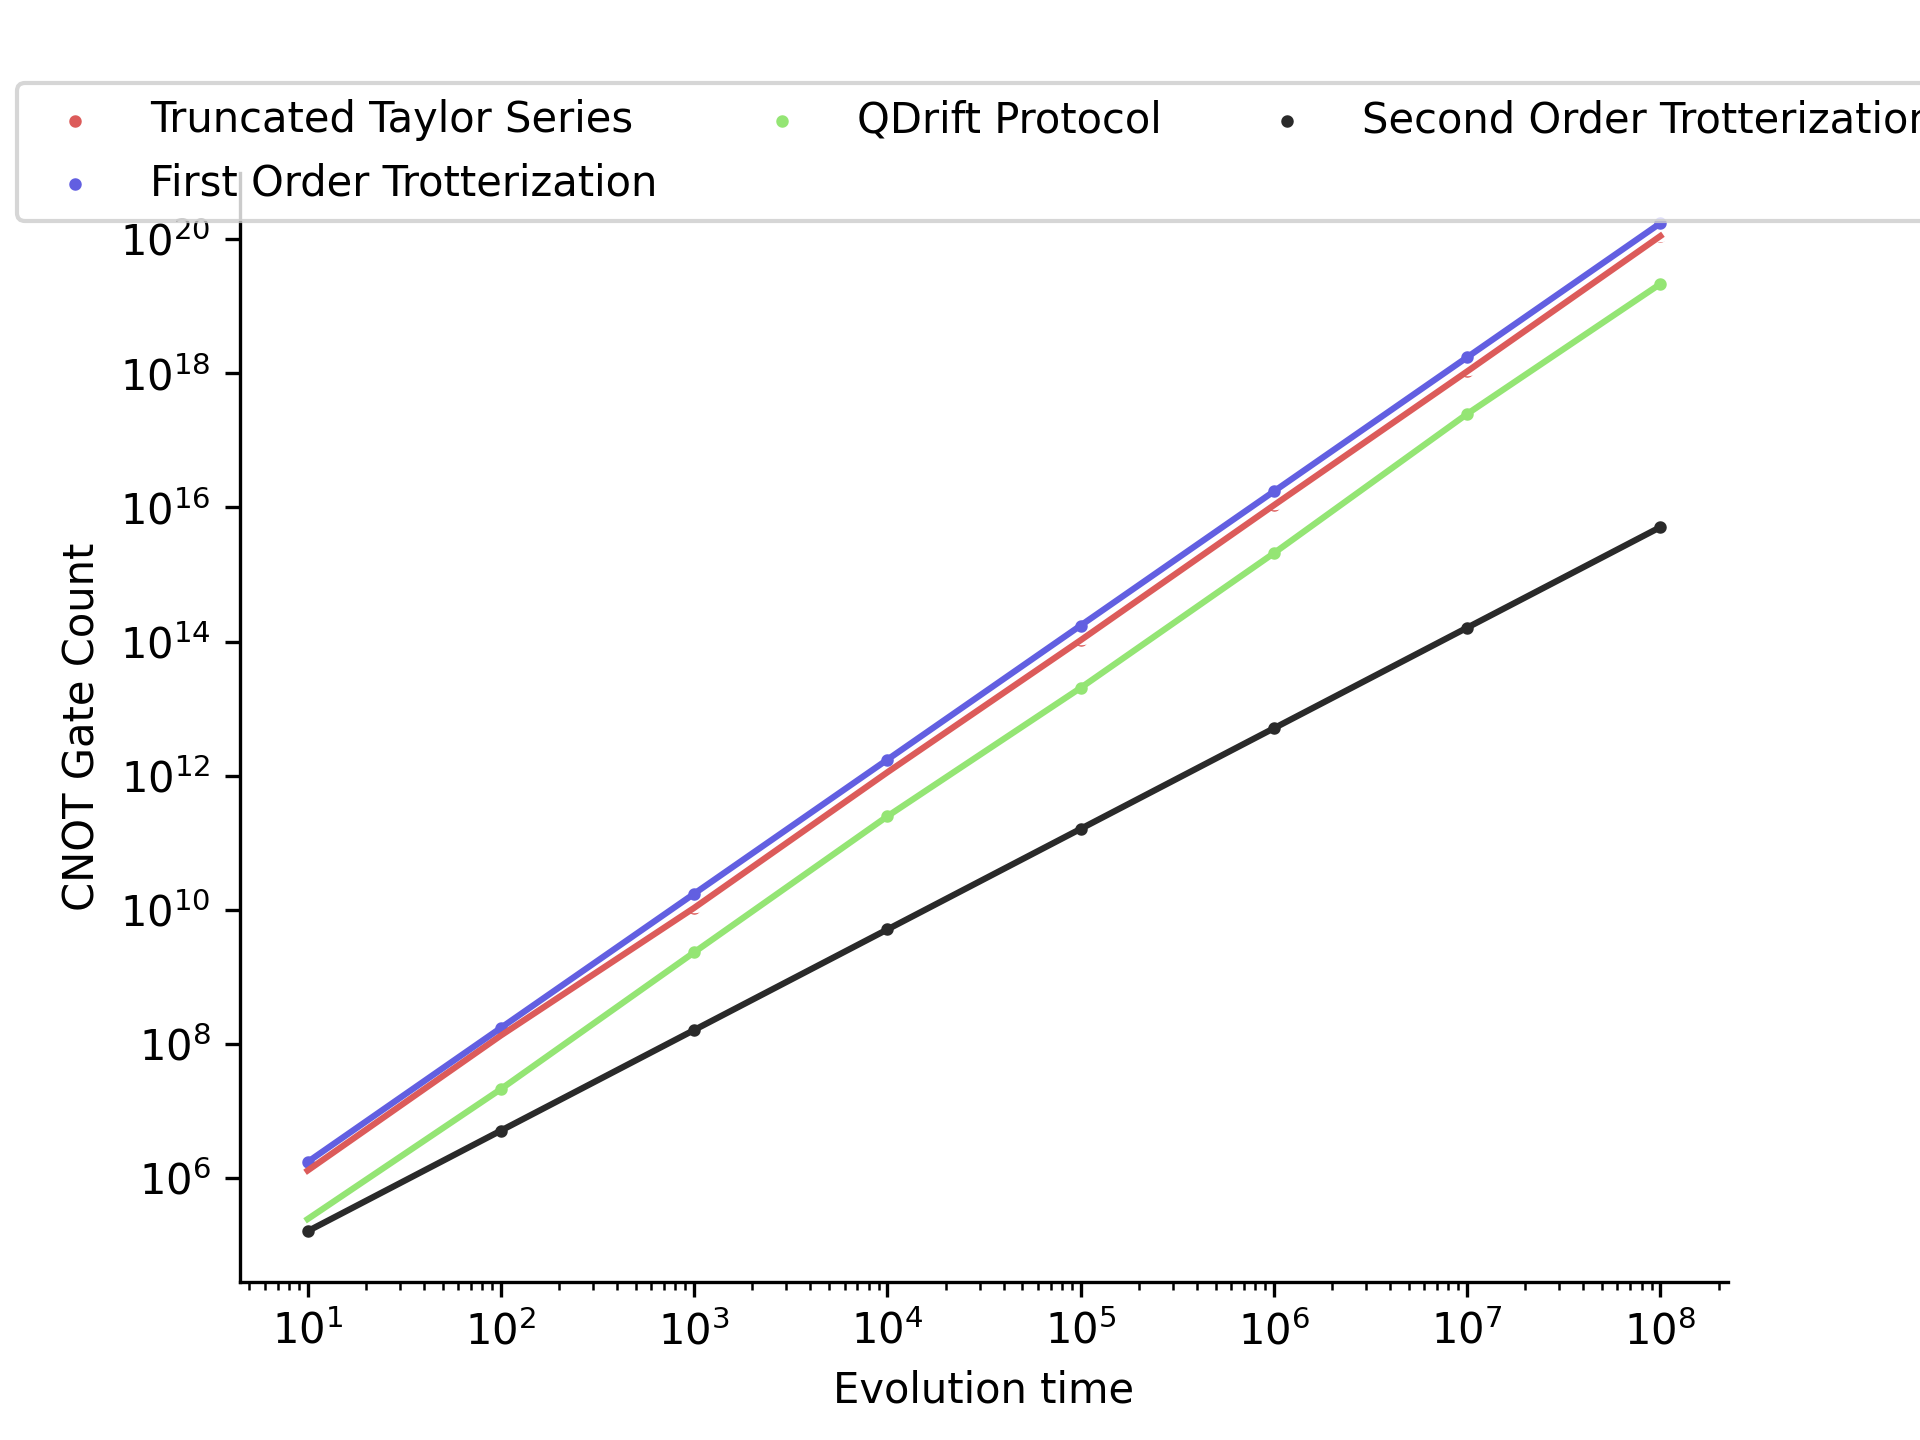
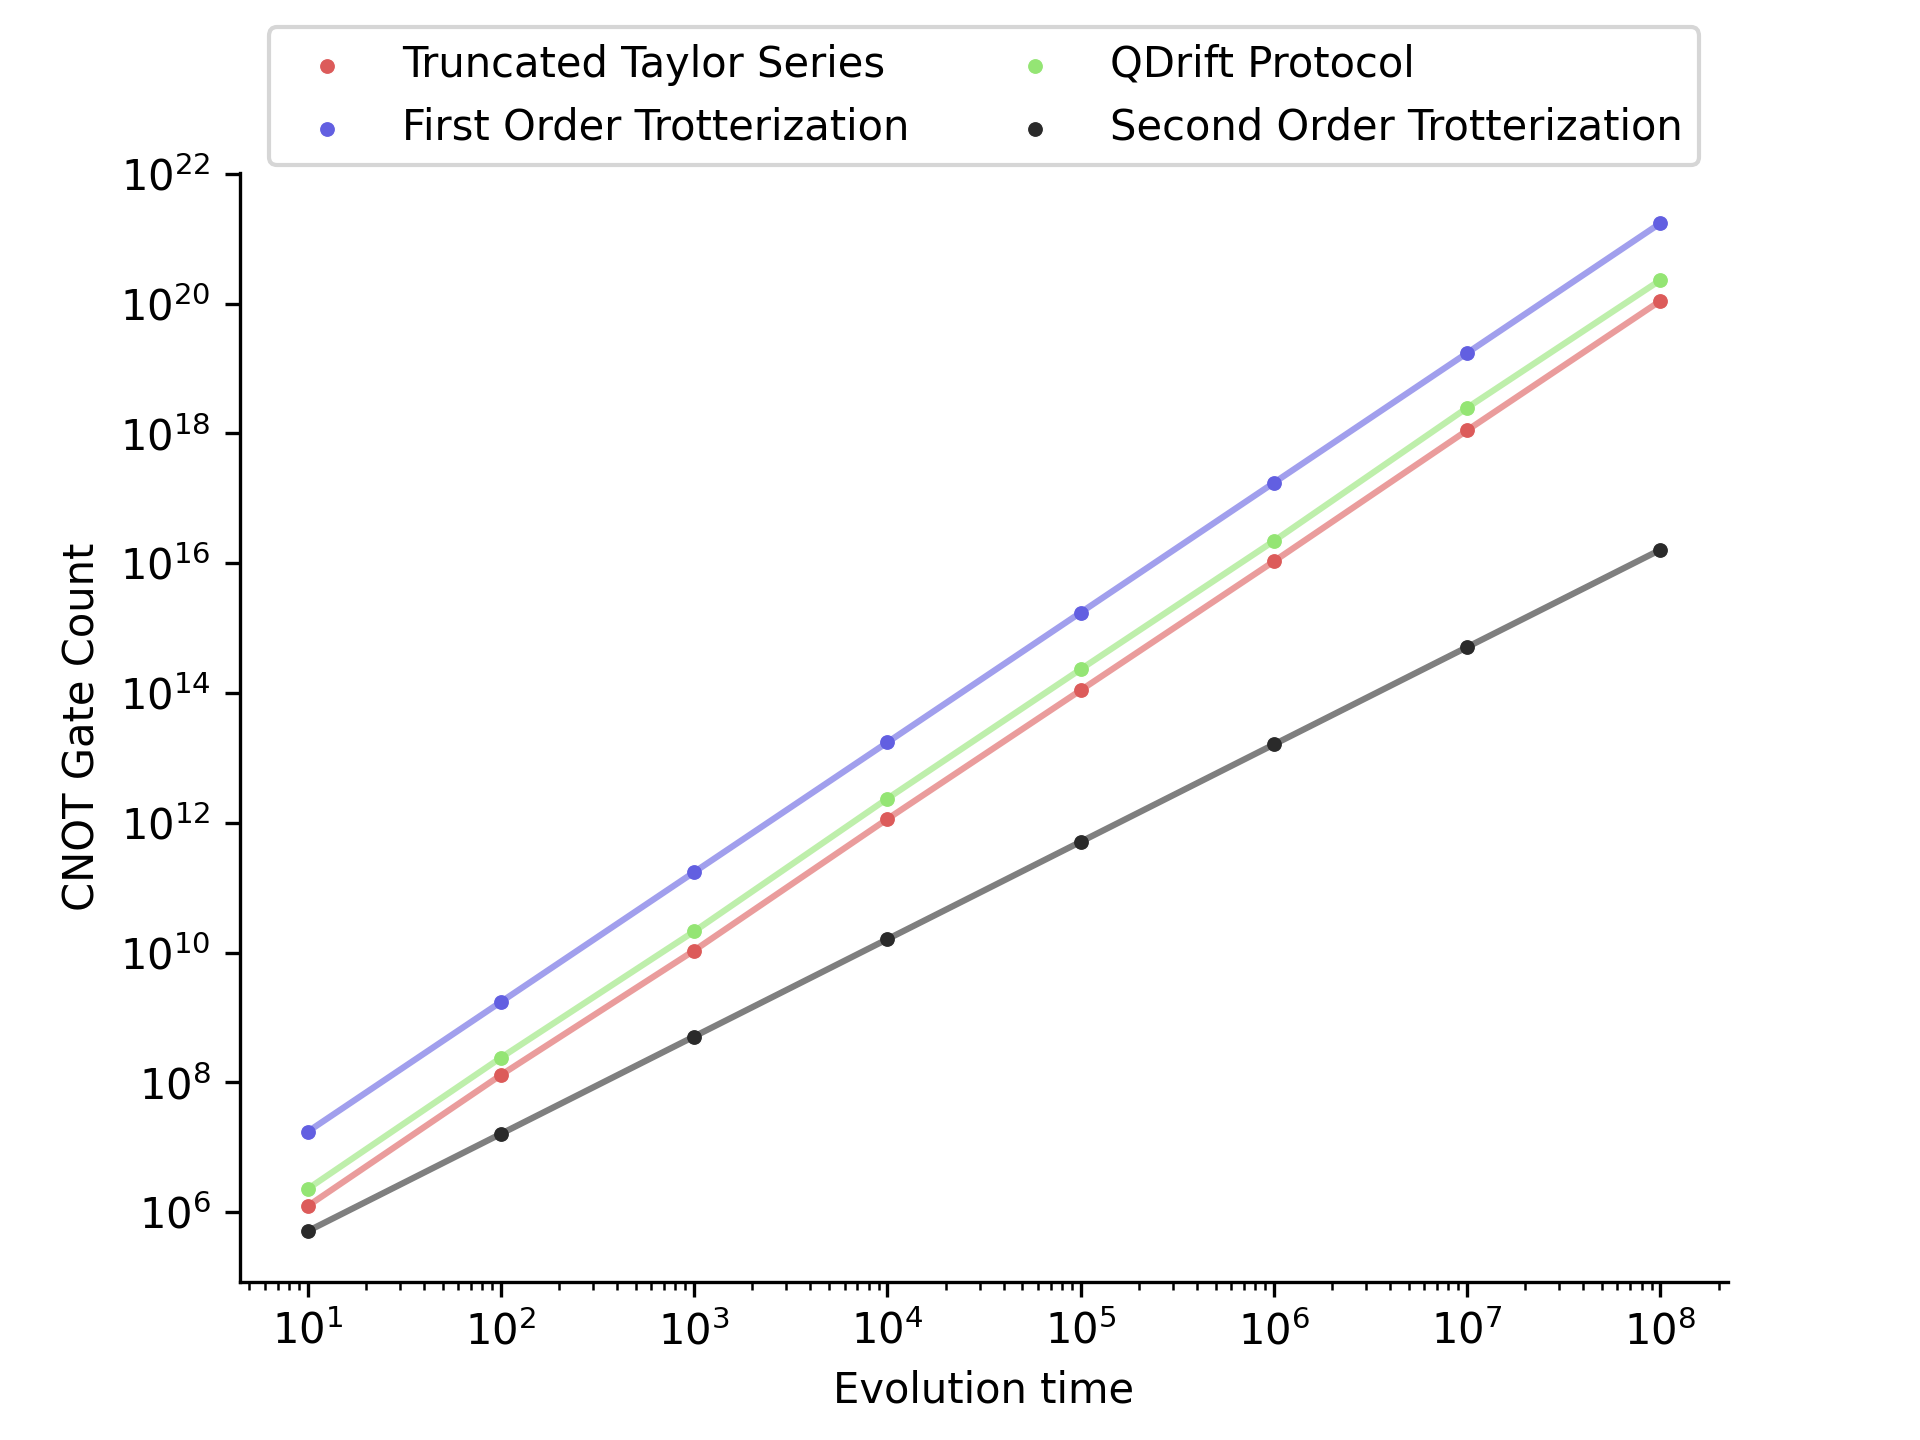
line plot fixed

diff --git a/ising/benchmark/lines/plot_time_vs_cx.py b/ising/benchmark/lines/plot_time_vs_cx.py
@@ -6,7 +6,7 @@ import json
 
 QUBIT = 10
 H_VAL = 0.1
-ERROR = 0.1
+ERROR = 0.01
 DELTA = 0.1
 
 # ERROR, TIME
@@ -39,16 +39,25 @@ def test_main():
             x_values.append(time)
             y_values.append(res)
 
+        ax = sns.lineplot(
+            x=x_values,
+            y=y_values,
+            color=COLORS[ind],
+            alpha=0.6,
+        )
+
+    for ind, (method, time_gate) in enumerate(results.items()):
+        x_values, y_values = [], []
+        for time_str, res_str in time_gate.items():
+            time, res = float(time_str), float(res_str)
+            x_values.append(time)
+            y_values.append(res)
+
         ax = sns.scatterplot(
             x=x_values,
             y=y_values,
             label=f"{MAP[method]}",
-            linewidth=3,
-            color=COLORS[ind],
-        )
-        ax = sns.lineplot(
-            x=x_values,
-            y=y_values,
+            s=15,
             color=COLORS[ind],
         )
 
@@ -66,7 +75,7 @@ def test_main():
 
     file_name = f"plots/benchmark/lines/size_{FILE_NAME}.png"
 
-    plt.legend(loc="upper center", bbox_to_anchor=(0.5, 1.10), ncol=3, fontsize=10)
+    plt.legend(loc="upper center", bbox_to_anchor=(0.5, 1.15), ncol=2, fontsize=10)
     plt.savefig(file_name, dpi=300)
     print(f"saved the plot to {file_name}")
 

diff --git a/ising/benchmark/lines/time_vs_cx.py b/ising/benchmark/lines/time_vs_cx.py
@@ -24,7 +24,7 @@ from ising.hamiltonian import parse
 
 QUBIT = 10
 H_VAL = 0.1
-ERROR = 0.1
+ERROR = 0.01
 DELTA = 0.1
 
 # ERROR, TIME
